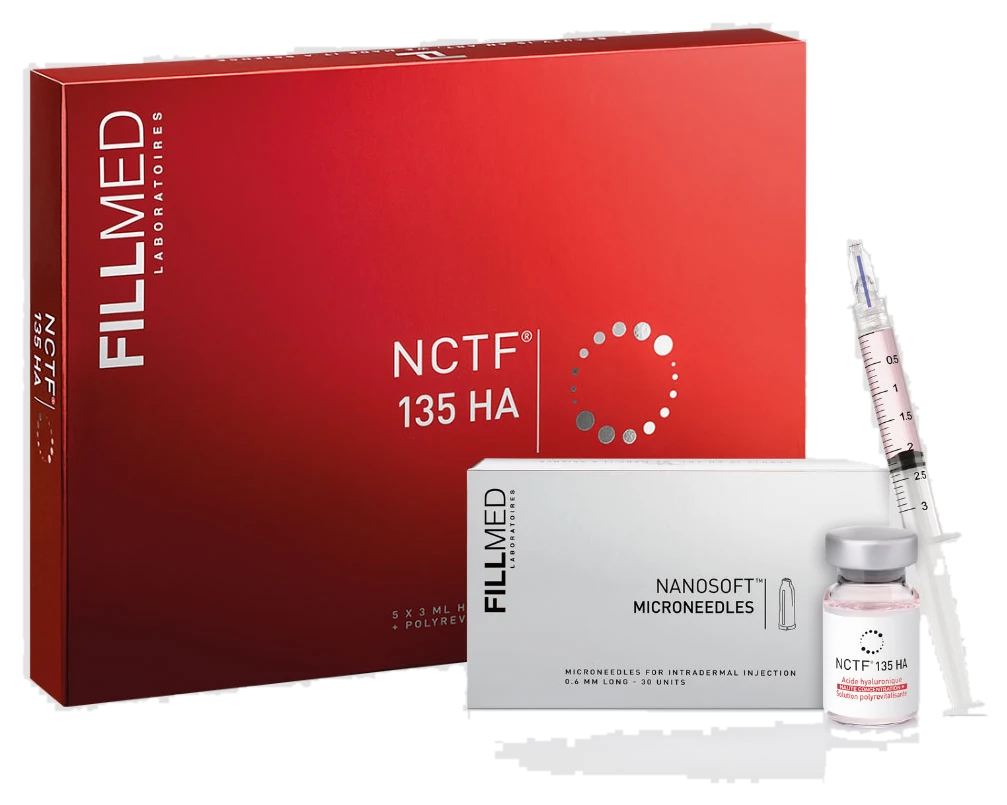
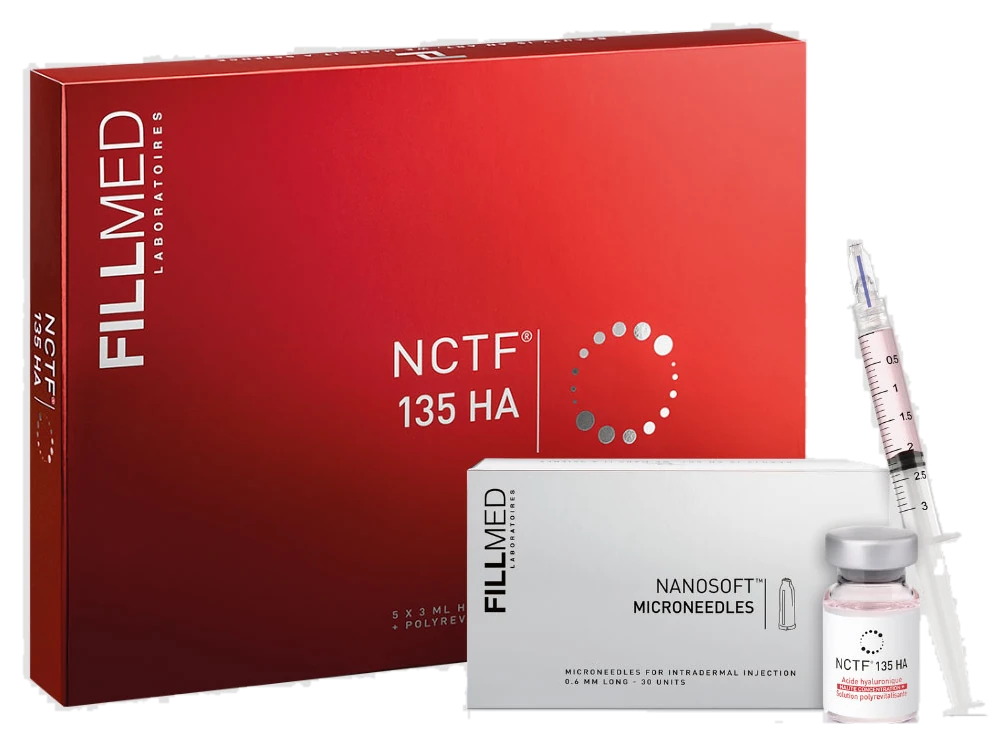
Re-crop NCTF and Suiselle photos to drop shadows/reflections
Cut the mask at each product's true base instead of the diff-based
bounding box, so the soft contact shadow (NCTF) and mirror reflection
(Suiselle) are excluded -- a tight product-only silhouette instead.

Changed region(s): [[0.0, 0.2779, 0.9851, 0.9879], [0.0308, 0.0309, 0.8004, 0.494], [0.0308, 0.3705, 0.0616, 0.6174]]

diff --git a/suiselle-penang.html b/suiselle-penang.html
@@ -278,7 +278,7 @@ gtag('config', 'G-ZZTS438D2E');
       <a href="dermal-fillers-penang.html" class="btn-line"><span class="bar"></span>All Injectables</a>
     </div>
   </div>
-  <img class="tp-hero-media tp-hero-media-wide" src="assets/treatments/suisselle-cellbooster.webp" alt="Suisselle Cellbooster Glow, Lift, Shape and Hair vials at CANVAS Medical Clinic, Penang" width="1066" height="775" loading="lazy">
+  <img class="tp-hero-media tp-hero-media-wide" src="assets/treatments/suisselle-cellbooster.webp" alt="Suisselle Cellbooster Glow, Lift, Shape and Hair vials at CANVAS Medical Clinic, Penang" width="1066" height="520" loading="lazy">
   <img class="tp-hero-watermark" src="assets/canvas-mark.png" alt="" aria-hidden="true" width="120" height="134" loading="lazy">
 </header>
 

diff --git a/nctf-penang.html b/nctf-penang.html
@@ -279,7 +279,7 @@ gtag('config', 'G-ZZTS438D2E');
       <a href="dermal-fillers-penang.html" class="btn-line"><span class="bar"></span>All Injectables</a>
     </div>
   </div>
-  <img class="tp-hero-media tp-hero-media-wide" src="assets/treatments/nctf.webp" alt="FILLMED NCTF 135 HA box, syringe and NANOSOFT Microneedles vial at CANVAS Medical Clinic, Penang" width="1007" height="805" loading="lazy">
+  <img class="tp-hero-media tp-hero-media-wide" src="assets/treatments/nctf.webp" alt="FILLMED NCTF 135 HA box, syringe and NANOSOFT Microneedles vial at CANVAS Medical Clinic, Penang" width="1007" height="745" loading="lazy">
   <img class="tp-hero-watermark" src="assets/canvas-mark.png" alt="" aria-hidden="true" width="120" height="134" loading="lazy">
 </header>
 
